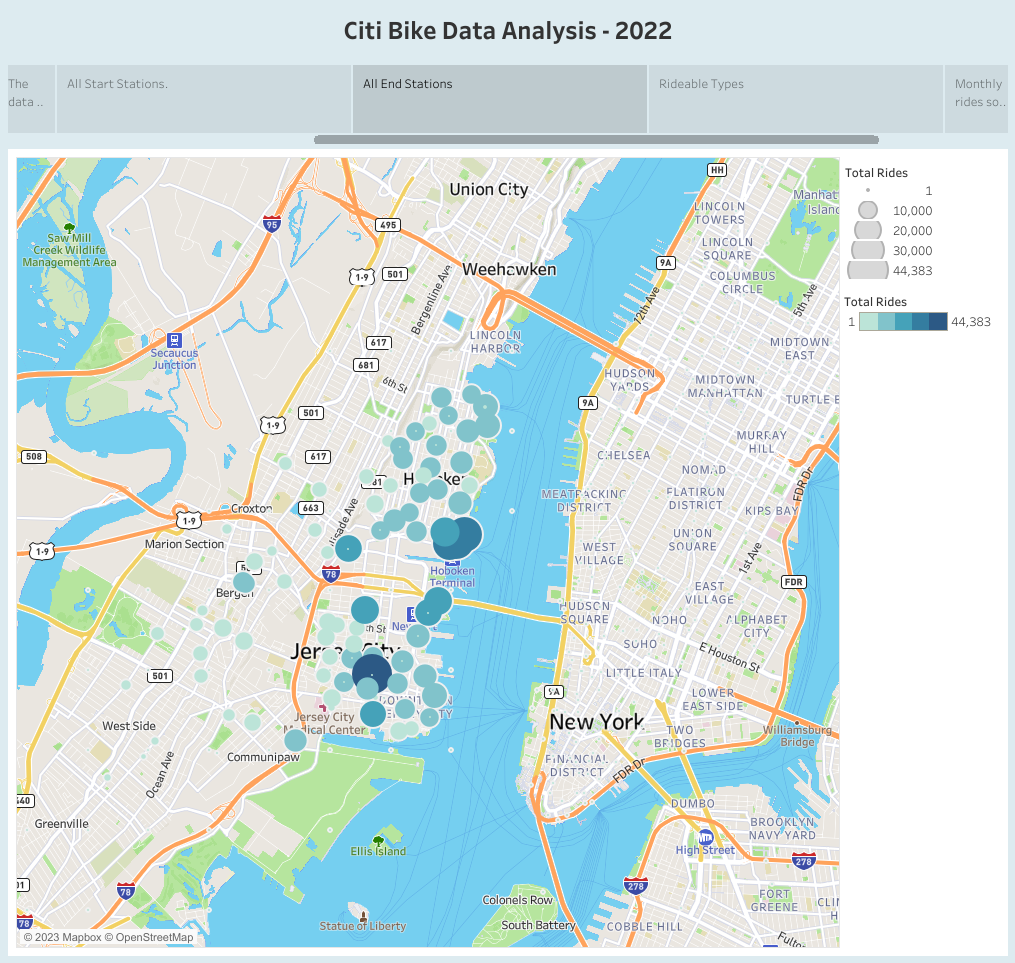
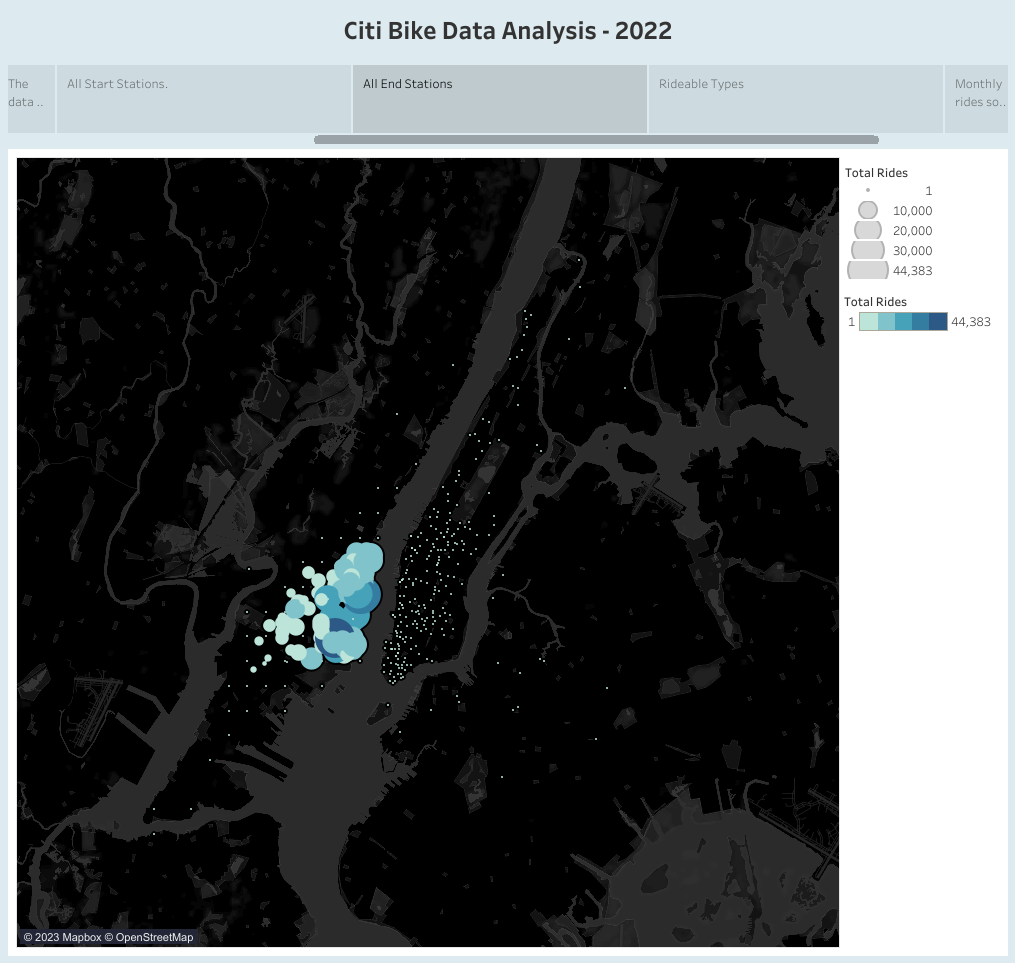
updated map images and analysis report

diff --git a/Citi_Bike_Analysis_Report.md b/Citi_Bike_Analysis_Report.md
@@ -1,7 +1,7 @@
 # Citi Bike Data Analysis - 2022 Data
 
 1. 2022 Totals.
-<br>
+
 For the year of 2022 there were a total of 895,485 rides made by both Citi Bike members and casual riders. Total stations where rides started were 85, whereas there were 321 stations where rides came to an end. When looking closely at the End station Map there were many single stations in Manhattan where rides ended. See below for data on Start and End stations.
 <br>
 
@@ -9,7 +9,7 @@ For the year of 2022 there were a total of 895,485 rides made by both Citi Bike 
 <br>
 
 2. Top 10 Station Start and End Points
-<br>
+
 The Top 10 starting stations for 2022 showed Grove Street PATH and Hoboken Terminal at River Street and Hudson Place as the top stations. Grove Street was the top station for 10 of the months in 2022. South Waterfront Walkway at Sinatra Drive and 1st Street was the top station in May and June.
 <br>
 The Top 10 ending stations for 2022 showed Grove Street PATH and South Waterfront Walkway at Sinatra Drive and 1st Street as the top stations. Grove Street was the top station for 11 of the months in 2022. South Waterfront Walkway at Sinatra Drive and 1st Street was the top station in May.
@@ -21,7 +21,7 @@ The same 10 stations were found in the Top 10 Start and End Stations.
 <br>
 
 3. Map Starting Stations
-<br>
+
 Looking at the Map for All Start Stations the vast majority of all starts are made in the Jersey City and Hoboken regions. The map is set to 'Dark Mode' to better see some of the lesser used stations.
 <br>
 
@@ -29,7 +29,7 @@ Looking at the Map for All Start Stations the vast majority of all starts are ma
 <br>
 
 4. Map Ending Stations
-<br>
+
 Looking at the Map for All End Stations the majority of all ends are made in the Jersey City and Hoboken regions. However there are many end points made in Manhattan from the Financial District upto Central Park as well as further north. Many of these locations are single figure units. The map is set to 'Dark Mode' to better see some of the lesser used stations.
 <br>
 
@@ -37,7 +37,7 @@ Looking at the Map for All End Stations the majority of all ends are made in the
 <br>
 
 5. Rideable Types
-<br>
+
 Looking at this chart we can see that the data shows that the most likely combination of rider and bike would be a Citi Bike member riding a classic bike at almost 50 percent. Overall Citi Bike members prefer the classic bike over the electric bike when compared to casual riders.
 <br>
 
@@ -45,7 +45,7 @@ Looking at this chart we can see that the data shows that the most likely combin
 <br>
 
 6. Monthly Rides and Monthly Bike Usage.
-<br>
+
 Looking at both charts we can see that summer months (June, July, August) are the most popular months among both Citi Bike members and casual riders. 
 <br>
 Citi Bike member numbers held stronger than casual riders as the year went on. This is likely to be affected by an increase in memberships being sold.
@@ -57,7 +57,6 @@ While Electric bike usage peeaked in June, the Classic bike peak was in August a
 <br>
 
 ## Findings
-<br>
 
 1. Many people are choosing Citi Bikes as their preferred option when travelling from central transport hubs to their place of work in Manhattan.
 
